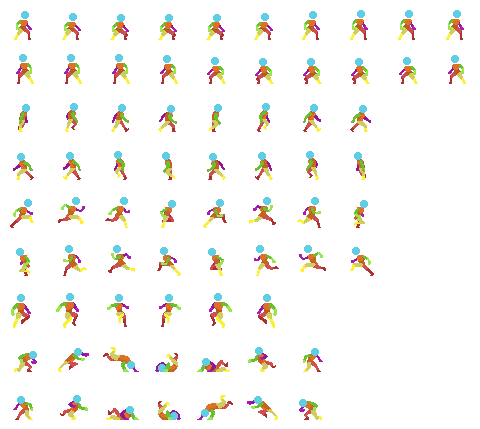
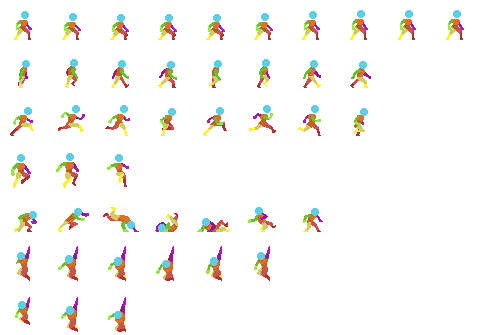
v0.0.2:150 벽짚기 제작

diff --git a/src/module/createCharacter.ts b/src/module/createCharacter.ts
@@ -112,14 +112,16 @@ export default class CreateCharacter {
         this.character.setVelocityX(this.motionSpeed.walk);
       }
 
-    }
-    if (this.currentAction === "running") {
+    }else if (this.currentAction === "running") {
       // 모션과 별개로 계속 움직여야 하기에 따로 적용.
       if (this.direction === "left") {
         this.character.setVelocityX(-this.motionSpeed.run);
       } else {
         this.character.setVelocityX(this.motionSpeed.run);
       }
+    } else if (this.currentAction === "wall_land") {
+      this.character.setVelocityX(0);
+      this.character.setVelocityY(0);
     }
   }
   motionRun = () => {
@@ -132,48 +134,72 @@ export default class CreateCharacter {
     }
 
   };
-  motionWalk = () => {
+  motionWalk() {
     if(!this.character.body.onFloor()) return;
     this.currentAction = `walk`;
     this.character.anims.play(this.currentAction, true);
   }
-  motionJump = () => {
-    if(this.character.body.onFloor()) return;
+  motionJump() {
+    if(this.character.body.onFloor() || this.currentAction === 'wall_land') return;
+
     this.currentAction = 'jump';
     this.character.anims.play('jump',true)
+  }
+  motionWallLand() {
+    // 벽에 닿았다
+    // 어느쪽 벽인지? -> 캐릭터 방향으로 확인
+    // 벽에 닿을때 계속 방향키를 누르고있으면 wall_land
+    // 점프하면 점프
+    // 손을 떼면 idle
+    if(!this.character.body.onWall()) return;
+      this.currentAction = 'wall_land'
+      this.character.anims.play(this.currentAction, true);
+  }
+  setDirection(direction:"left"|"right"){
+
+    this.direction = direction;
+    if(direction === 'left')  this.character.setFlipX(true); // 이미지 반대로.
+    else this.character.setFlipX(false);
   }
   updateAnimations() {
     //리팩터링하기.
     if (this.cursors.space.isDown) { //점프
       if(this.character.body.onFloor()){// 바닥에 닿은 경우
-        //스페이스바를 눌렀을 때 점프
+        //바닥에서 점프
         this.currentAction = `jump`;
         this.character.setVelocityY(this.motionSpeed.jump);
-        this.character.anims.duration = 1000;
+        this.character.anims.play(`jump`);
+      } else if(this.currentAction === 'wall_land' || this.currentAction === 'wall_slide'){
+        //벽에 붙었을때 점프.
+       if(this.direction === 'left') this.setDirection("right")
+       else if(this.direction === 'right') this.setDirection("left")
+        
+        this.currentAction = `jump`;
+        this.character.setVelocityY(this.motionSpeed.jump);
+        this.character.setVelocityX(this.motionSpeed.run);
         this.character.anims.play(`jump`);
       }
     }
     if (this.cursors.left.isDown) {
       if (this.character.body.onFloor()) {
-        this.direction = "left";
-        this.character.setFlipX(false);
+        this.setDirection("left")
         //왼쪽
         if (this.cursors.shift.isDown) {
           // 달리기. this.cursors.shift.isUp
           this.motionRun();
         } else {
           //쉬프트 안누를 경우 걷기.
-              //점프가 아니면서 땅에 닿았을 경우에만 작동
-              this.motionWalk()
+          //점프가 아니면서 땅에 닿았을 경우에만 작동
+          this.motionWalk()
         }
       } else{
+        //공중
         this.motionJump();
+        this.motionWallLand();
       }
     } else if (this.cursors.right.isDown) {
       if (this.character.body.onFloor()) {
-        this.direction = "right";
-        // this.character.toggleFlipX();
-        this.character.setFlipX(true);
+        this.setDirection("right")
         // 오른쪽
         if (this.cursors.shift.isDown) {
           // 달리기. this.cursors.shift.isUp
@@ -184,6 +210,7 @@ export default class CreateCharacter {
         }
       } else {
         this.motionJump();
+        this.motionWallLand();
       }
     } else {
       // 기본상태.
@@ -192,9 +219,8 @@ export default class CreateCharacter {
           this.currentAction = `idle`;
           this.character.anims.play(this.currentAction, true);
         } else { //바닥에 닿지 않았는데 점프가 아닐 경우 강제 변경.
-          if(this.currentAction !== 'jump'){
             this.motionJump();
-          }
+            this.motionWallLand();
         }
     }
     this.onSpeed();

diff --git a/src/phaser/Scene/Game1.ts b/src/phaser/Scene/Game1.ts
@@ -413,37 +413,51 @@ export default class Character extends Phaser.Scene {
     const options = [
       {
         key: "idle",
-        start: 10,
-        end: 19,
+        start: 0,
+        end: 9,
         frameRate: 8,
         repeat: -1,
       },
       {
         key: "walk", // left
-        start: 30,
-        end: 37,
+        start: 10,
+        end: 17,
         frameRate: 8,
         repeat: -1,
       },
       {
         key: "run",
-        start: 50,
-        end: 57,
+        start: 20,
+        end: 27,
         frameRate: 8,
         repeat: -1,
       },
       {
         key: "jump",
-        start: 63,
-        end: 65,
+        start: 30,
+        end: 32,
         frameRate: 2,
+        repeat: 1,
+      },
+      {
+        key: "wall_land",
+        start: 50,
+        end: 55,
+        frameRate: 16,
+        repeat: 0,
+      },
+      {
+        key: "wall_slide",
+        start: 60,
+        end: 62,
+        frameRate: 8,
         repeat: 1,
       },
     ] as AnimationsType[];
     this.main_char?.setAnimations(options);
     this.main_char?.getAnimations();
 
-    this.main_char?.character.setSize(30,30) 
+    this.main_char?.character.setSize(14,30) 
     //캐릭터 이미지에 빈공간이 있어 바닥에 닿지 않아 크기 조절
   }
   preload() {

diff --git a/src/types/Characters.d.ts b/src/types/Characters.d.ts
@@ -29,7 +29,9 @@ type ActionKeyType =
   | "walk"
   | "run"
   | "jump"
-  | "running";
+  | "running"
+  | "wall_land"
+  | "wall_slide";
 type AnimationsType = {
   key: ActionKeyType;
   start: number;

diff --git a/HISTORY.md b/HISTORY.md
@@ -481,3 +481,8 @@
 - v0.0.2:148
 - game finder를 끌 경우 destroy 메소드 실행
 - v0.0.2:149
+
+### 2023 7/2
+
+- 벽짚기 제작
+- v0.0.2:150
